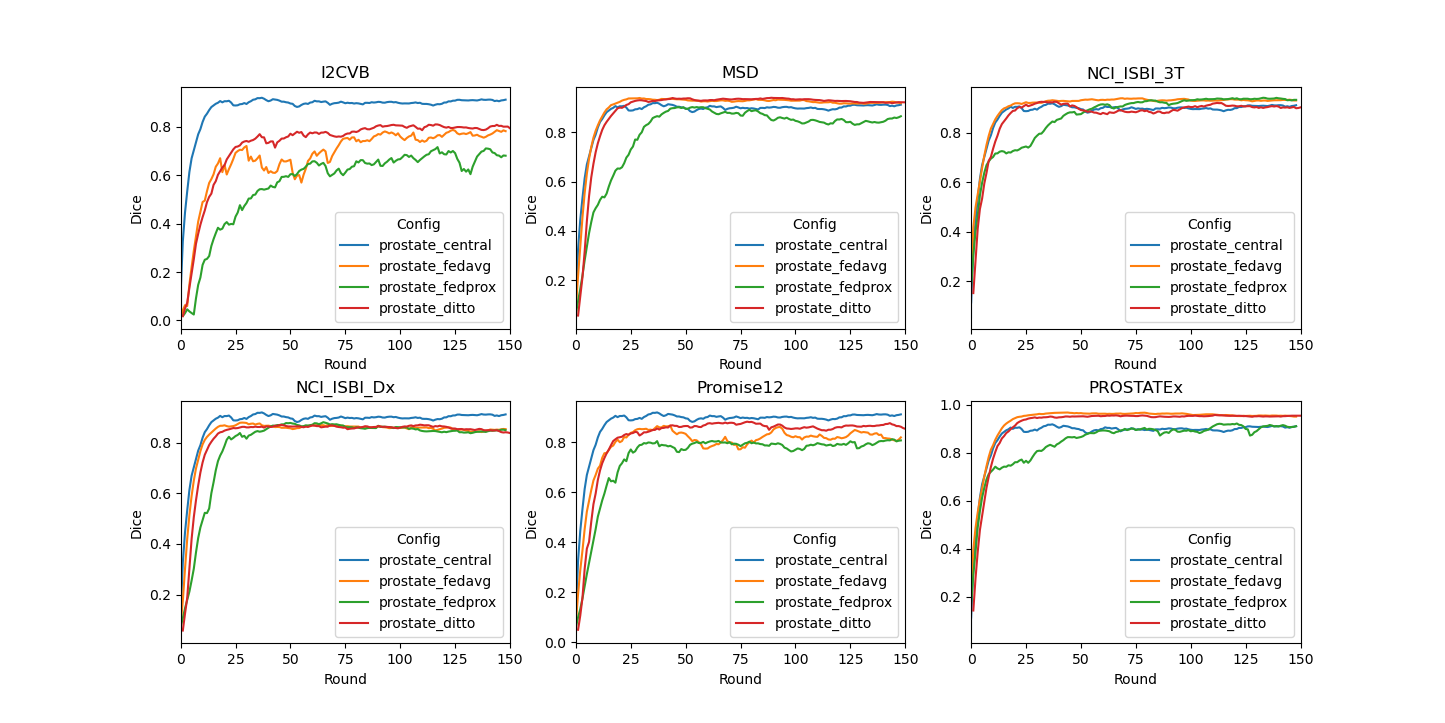
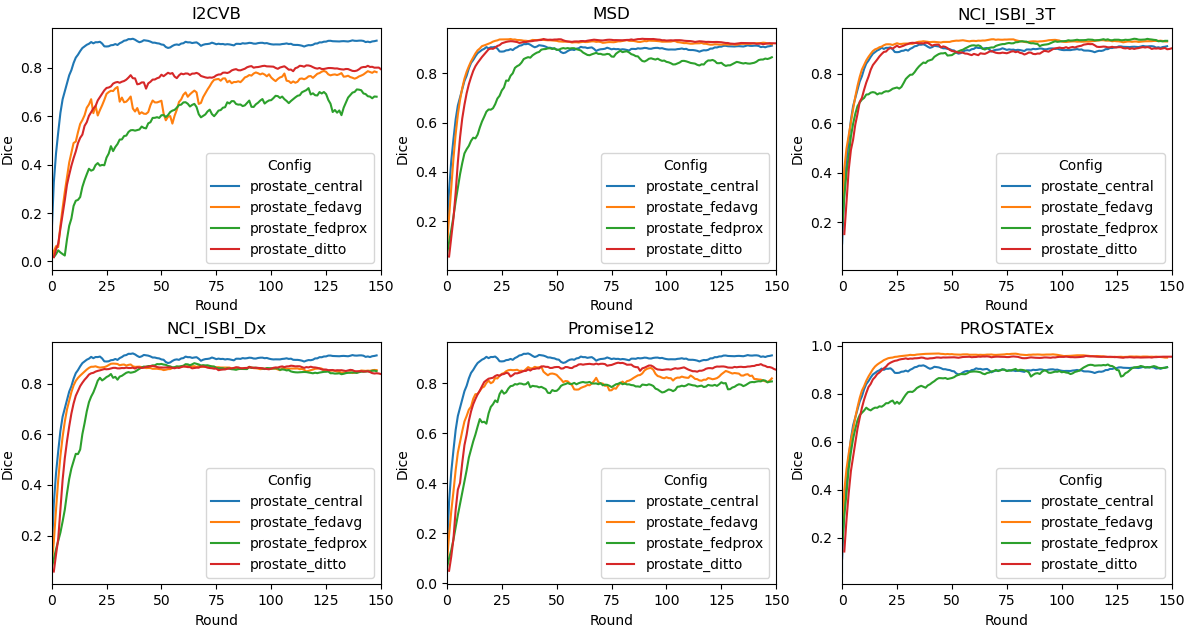
add 3D results and time

diff --git a/examples/prostate/result_stat/plot_tensorboard_events.py b/examples/prostate/result_stat/plot_tensorboard_events.py
@@ -20,8 +20,8 @@ import seaborn as sns
 import tensorflow as tf
 
 # poc workspace
-client_results_root = "../prostate_3D/workspace_prostate"
-server_results_root = "../prostate_3D/workspace_prostate/server"
+client_results_root = "/media/ziyuexu/Research/Experiment/NVFlare/Github_ditto_Run/prostate_3D/workspace_prostate_dgx/workspace_prostate"
+server_results_root = "/media/ziyuexu/Research/Experiment/NVFlare/Github_ditto_Run/prostate_3D/workspace_prostate_dgx/workspace_prostate/server"
 
 # 4 or 6 sites
 sites_fl = ["I2CVB", "MSD", "NCI_ISBI_3T", "NCI_ISBI_Dx"]
@@ -82,7 +82,7 @@ def add_eventdata(data, config, filepath, tag="val_metric_global_model"):
     for e in event_data[tag]:
         # print(e)
         data["Config"].append(config)
-        data["Round"].append(e[0])
+        data["Epoch"].append(e[0])
         metric.append(e[1])
 
     metric = smooth(metric, weight)
@@ -98,11 +98,11 @@ def main():
     i = 1
     # add event files
 
-    data = {"Config": [], "Round": [], "Dice": []}
+    data = {"Config": [], "Epoch": [], "Dice": []}
 
     for site in sites_fl:
         # clear data for each site
-        data = {"Config": [], "Round": [], "Dice": []}
+        data = {"Config": [], "Epoch": [], "Dice": []}
         for config, exp in experiments.items():
             run_number = find_run_number(workdir=server_results_root, fl_app_name=config)
             print(f"Found run {run_number} for {config}")
@@ -119,8 +119,8 @@ def main():
 
         ax = plt.subplot(2, int(num_site / 2), i)
         ax.set_title(site)
-        sns.lineplot(x="Round", y="Dice", hue="Config", data=data)
-        ax.set_xlim([0, 150])
+        sns.lineplot(x="Epoch", y="Dice", hue="Config", data=data)
+        #ax.set_xlim([0, 1000])
         i = i + 1
     plt.subplots_adjust(hspace=0.3)
     plt.show()

diff --git a/examples/prostate/prostate_3D/pt/learners/supervised_monai_prostate_learner.py b/examples/prostate/prostate_3D/pt/learners/supervised_monai_prostate_learner.py
@@ -131,7 +131,7 @@ class SupervisedMonaiProstateLearner(SupervisedLearner):
             strides=(2, 2, 2, 2),
             num_res_units=2,
         ).to(self.device)
-        self.optimizer = optim.Adam(self.model.parameters(), lr=self.lr)
+        self.optimizer = optim.SGD(self.model.parameters(), lr=self.lr, momentum=0.9)
         self.criterion = DiceLoss(sigmoid=True)
 
         if self.fedproxloss_mu > 0:
@@ -191,27 +191,33 @@ class SupervisedMonaiProstateLearner(SupervisedLearner):
                 cache_rate=cache_rate,
                 num_workers=1,
             )
+            self.valid_dataset = CacheDataset(
+                data=valid_list,
+                transform=self.transform_valid,
+                cache_rate=cache_rate,
+                num_workers=1,
+            )
         else:
             self.train_dataset = Dataset(
                 data=train_list,
                 transform=self.transform_train,
             )
-        self.valid_dataset = Dataset(
-            data=valid_list,
-            transform=self.transform_valid,
-        )
+            self.valid_dataset = Dataset(
+                data=valid_list,
+                transform=self.transform_valid,
+            )
 
         self.train_loader = DataLoader(
             self.train_dataset,
             batch_size=1,
             shuffle=True,
-            num_workers=0,
+            num_workers=1,
         )
         self.valid_loader = DataLoader(
             self.valid_dataset,
             batch_size=1,
             shuffle=False,
-            num_workers=0,
+            num_workers=1,
         )
 
         # Set inferer and evaluation metric

diff --git a/examples/prostate/result_stat/prostate_3d_test_only.py b/examples/prostate/result_stat/prostate_3d_test_only.py
@@ -35,8 +35,8 @@ def main():
     parser = argparse.ArgumentParser(description="Model Testing")
     parser.add_argument("--model_path", type=str)
     parser.add_argument("--cache_rate", default=1.0, type=float)
-    parser.add_argument("--dataset_base_dir", default="../data_preparation/dataset_2D", type=str)
-    parser.add_argument("--datalist_json_path", default="../data_preparation/datalist_2D/client_All.json", type=str)
+    parser.add_argument("--dataset_base_dir", default="../data_preparation/dataset", type=str)
+    parser.add_argument("--datalist_json_path", default="../data_preparation/datalist/client_All.json", type=str)
     args = parser.parse_args()
 
     # Set basic settings and paths
@@ -52,7 +52,7 @@ def main():
     test_list = load_decathlon_datalist(
         data_list_file_path=datalist_json_path,
         is_segmentation=True,
-        data_list_key="testing",
+        data_list_key="validation",
         base_dir=dataset_base_dir,
     )
     print(f"Testing Size: {len(test_list)}")

diff --git a/examples/prostate/prostate_3D/pt/learners/supervised_monai_prostate_ditto_learner.py b/examples/prostate/prostate_3D/pt/learners/supervised_monai_prostate_ditto_learner.py
@@ -75,7 +75,7 @@ class SupervisedMonaiProstateDittoLearner(SupervisedMonaiProstateLearner):
             strides=(2, 2, 2, 2),
             num_res_units=2,
         ).to(self.device)
-        ditto_optimizer = optim.Adam(ditto_model.parameters(), lr=self.config_info["ditto_learning_rate"])
+        ditto_optimizer = optim.SGD(ditto_model.parameters(), lr=self.config_info["ditto_learning_rate"], momentum=0.9)
         self.ditto_helper = SupervisedPTDittoHelper(
             criterion=DiceLoss(sigmoid=True),
             model=ditto_model,

diff --git a/examples/prostate/prostate_3D/README.md b/examples/prostate/prostate_3D/README.md
@@ -79,6 +79,7 @@ bash ./submit_job.sh [config]
 `[config]` is the experiment job that will be submitted for the FL training, in this example, this includes `prostate_central`, `prostate_fedavg`, `prostate_fedprox`, and `prostate_ditto`.  
 
 Note that in order to make it working under most system resource conditions, the current script used regular `Dataset` for data loading in `pt/learners/prostate_learner.py`, which could be slow. If resource permits, it will make the training much faster by replacing it with `CacheDataset`. More information available [here](https://docs.monai.io/en/stable/data.html#cachedataset).  
+For reference, with `"cache_dataset": 1.0` setting (cache all data), the centralized training (200 round, 10 epoch per round) takes around 46 hours on a 12GB NVIDIA TITAN Xp GPU. 
 
 ### 2.3 Centralized training
 To simulate a centralized training baseline, we run FL with 1 client using all the training data. 
@@ -113,11 +114,29 @@ In this example, for Central/FedAvg/FedProx, only the global model gets evaluate
 
 Let's summarize the result of the experiments run above. We compare the validation scores of 
 the global model for Central/FedAvg/FedProx, and personalized models for Ditto. In this example, each client computes their validation scores using their own
-validation set, and the centralized model computes the validation score using the combined validation set. Please note that due to the limited size of data set, the validation curve can have significant variations across runs.
+validation set, and the centralized model computes the validation score using the combined validation set. Please note that due to the limited size of data set, the results can have significant variations across runs.
 
 We provide a script for plotting the tensorboard records, running
 ```
 python3 ./result_stat/plot_tensorboard_events.py
 ```
-The TensorBoard curves for validation Dice for the 150 epochs (150 rounds, 1 local epochs per round) during training are shown below:
+The TensorBoard curves (smoothed with weight 0.8) for validation Dice for the 2000 epochs (200 rounds, 10 local epochs per round) during training are shown below:
 ![All training curve](./figs/all_training.png)
+
+### Testing score
+The testing score is computed based on the best global model for Central/FedAvg/FedProx, and the six best personalized models for Ditto.
+We provide a script for performing validation on testing data split, please add the correct paths and job_ids, and run
+
+```
+bash ./result_stat/testing_models_3d.sh
+```
+Note that for Ditto, the score is the average Dice among all 4 personalized models evaluated on their own testing data weighted by testing data size.
+
+The Dice results for the above run are:
+
+| Config	          | 	Val Dice	 | 
+|------------------|------------|
+| prostate_central | 	0.8283	   | 
+| prostate_fedavg  | 0.6868     | 
+| prostate_fedprox | 0.6135     | 
+| prostate_ditto   | 	0.7528	   |

diff --git a/examples/prostate/prostate_2D/README.md b/examples/prostate/prostate_2D/README.md
@@ -119,7 +119,7 @@ We provide a script for plotting the tensorboard records, running
 ```
 python3 ./result_stat/plot_tensorboard_events.py
 ```
-The TensorBoard curves for validation Dice for the 150 epochs (150 rounds, 1 local epochs per round) during training are shown below:
+The TensorBoard curves (smoothed with weight 0.8) for validation Dice for the 150 epochs (150 rounds, 1 local epochs per round) during training are shown below:
 ![All training curve](./figs/all_training.png)
 
 ### Testing score
@@ -139,6 +139,3 @@ The Dice results for the above run are:
 | prostate_fedavg  |   0.8324   | 
 | prostate_fedprox |   0.8131   | 
 | prostate_ditto   | 	0.8474	 |
-
-
-
